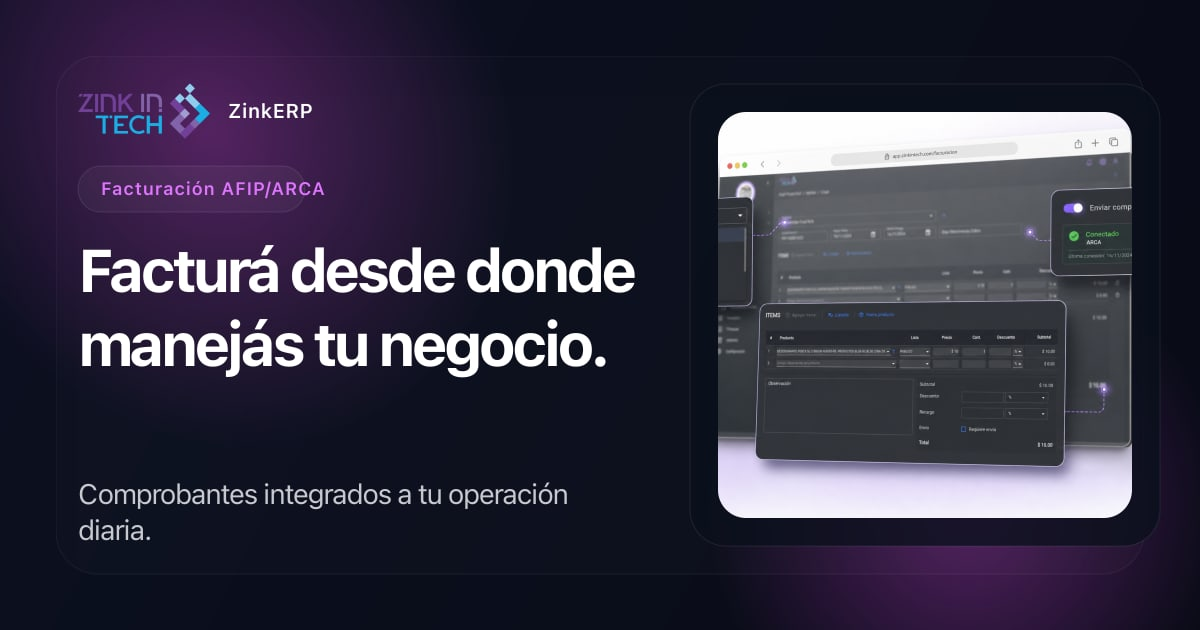
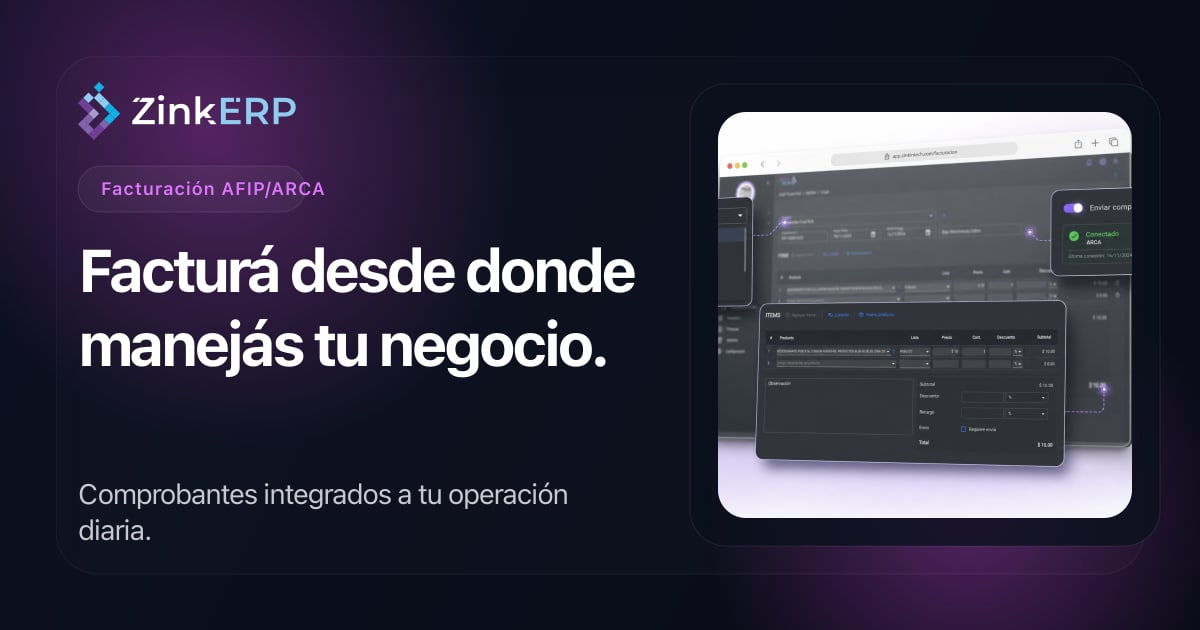
feat(brand): apply ZinkERP A1 identity (ZIT-2278)
Replace legacy logo/favicons/OG and align brand tokens to the official palette using kit SVG lockups (curves only).

Changed region(s): [[0.0617, 0.1206, 0.2775, 0.2111]]

diff --git a/public/403.html b/public/403.html
@@ -53,7 +53,7 @@
         h1 {
             font-size: 4rem;
             font-weight: 700;
-            color: #7500B9;
+            color: #723f97;
             margin-bottom: 1rem;
         }
         
@@ -73,7 +73,7 @@
         
         .btn {
             display: inline-block;
-            background: linear-gradient(135deg, #7500B9 0%, #9c27b0 100%);
+            background: #723f97;
             color: white;
             padding: 12px 30px;
             text-decoration: none;
@@ -86,7 +86,8 @@
         
         .btn:hover {
             transform: translateY(-2px);
-            box-shadow: 0 8px 25px rgba(117, 0, 185, 0.3);
+            box-shadow: 0 8px 25px rgba(114, 63, 151, 0.35);
+            background: #8262a9;
         }
         
         .error-code {
@@ -98,7 +99,7 @@
 </head>
 <body>
     <div class="container">
-        <img src="/zinkerp-logo.png" alt="ZinkERP" class="logo">
+        <img src="/brand/zinkerp-horizontal_dark_tight.svg" alt="ZinkERP" class="logo">
         
         <h1>403</h1>
         <h2>Acceso Denegado</h2>

diff --git a/src/styles/global.css b/src/styles/global.css
@@ -3,11 +3,11 @@
 @tailwind utilities;
 
 :root {
-  --primary: #AC69FF;
-  --primary-light: #BF8AFF;
-  --primary-dark: #9940FF;
-  --blue-primary: #007EFF;
-  --blue-secondary: #008ED3;
+  --primary: #723f97;
+  --primary-light: #a49fce;
+  --primary-dark: #8262a9;
+  --blue-primary: #10b0e6;
+  --blue-secondary: #8fcdf0;
   --dark: #25282B;
   --surface-shadow-sm: 0 12px 32px rgba(2, 6, 23, 0.18);
   --surface-shadow-md: 0 18px 40px rgba(2, 6, 23, 0.24);
